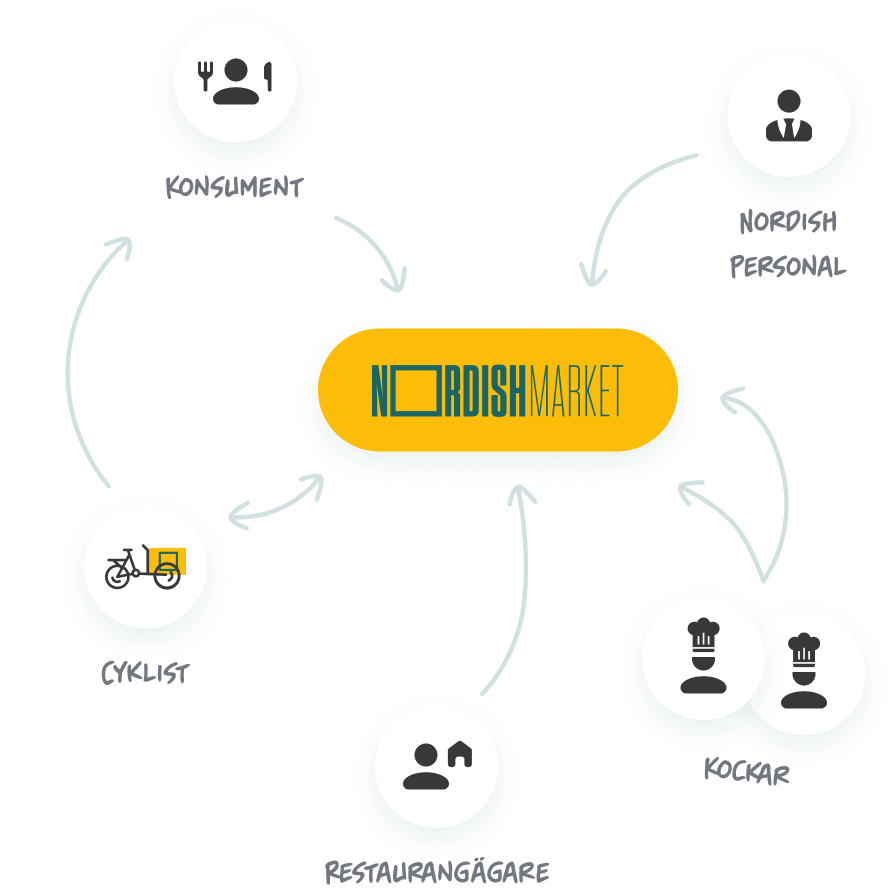
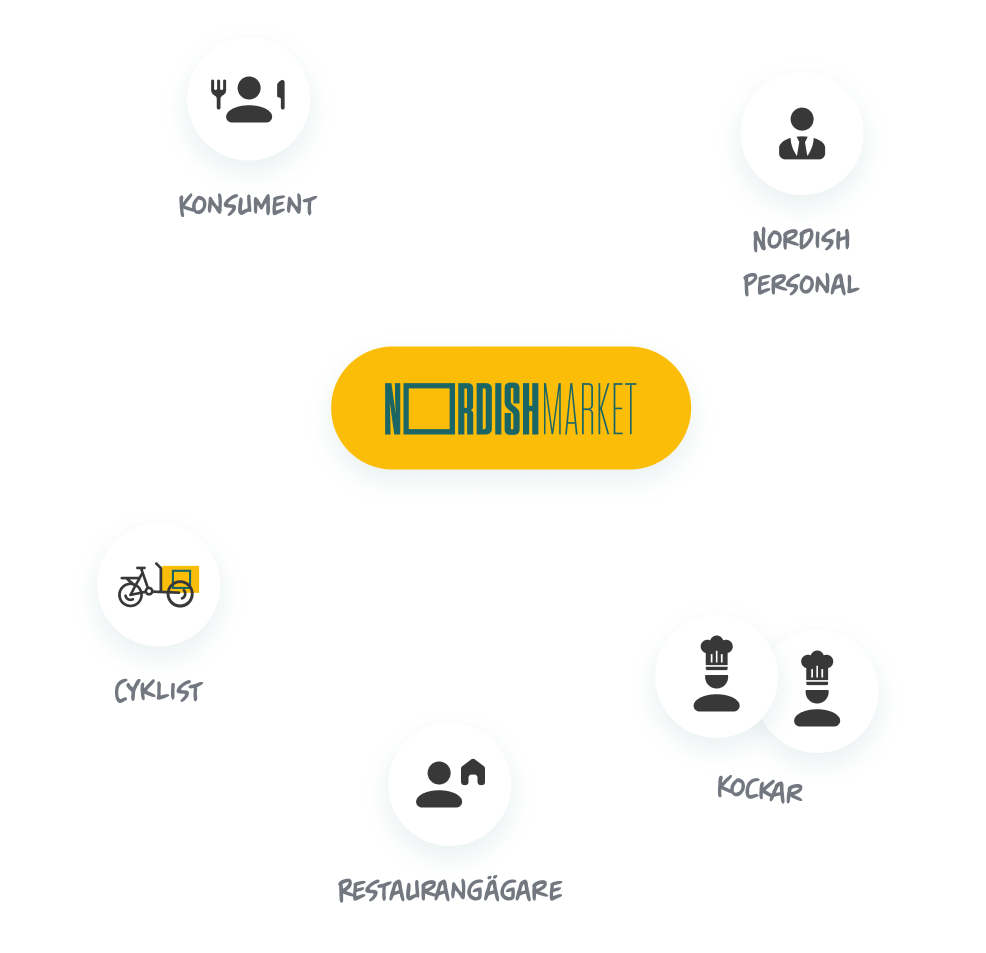
Added translation for Nordish market case + transition fixes

diff --git a/src/cases/nordish-market.js b/src/cases/nordish-market.js
@@ -15,7 +15,6 @@ import ProjectsBlock from './components/projects-block'
 const inViewClasses = [
   `${s.inner} > div:nth-child(2) > :first-child`,
   `${s.inner} > div:nth-child(3) > div:first-child > div`,
-  `${s.inner} > div:nth-child(4) > div:first-child`,
   `${s.inner} > div:nth-child(5) > div:first-child`,
   `${s.inner} > div:nth-child(6) > div:first-child`,
   `${s.inner} > div:nth-child(7) > div:first-child`,
@@ -66,7 +65,6 @@ export default class extends Component {
             />
 
             <ParallaxBumpBlock
-              inView='inViewRight'
               title={content.serviceDesignTitle}
               text={content.serviceDesignText}
               items={[
@@ -78,7 +76,7 @@ export default class extends Component {
             />
 
             <ThreeBlock
-              inView='inViewBottom'
+              inView='inViewLeft'
               background='#FFFFFF'
               modifier='nordish-branding'
               blocks={[
@@ -98,7 +96,6 @@ export default class extends Component {
             />
 
             <TextBlock
-              inView='inViewBottom'
               title={content.outpostTitle}
               text={content.outpostText}
               modifier='nordish'
@@ -106,9 +103,9 @@ export default class extends Component {
             />
 
             <ThreeBlock
-              inView='inViewBottom'
+              inView='inViewRight'
               background='#F4F8F8'
-              modifier='nordish-tech'
+              modifier='nordish-kitchen'
               blocks={[
                 { type: 'text', title: content.kitchenTitle, text: content.kitchenText },
                 { type: 'image', image: content.kitchenImage, modifier: 'nordishImg' }

diff --git a/src/cases/components/three-block.sass b/src/cases/components/three-block.sass
@@ -124,6 +124,7 @@
             width: 100%
 
 
+
   &.nordish-branding
     > .inner  > .blocks >
       .block:nth-child(1)::after
@@ -151,7 +152,7 @@
           margin: 0
           justify-content: center
 
-  &.nordish-tech
+  &.nordish-tech, &.nordish-kitchen
     > .inner  > .blocks >
       .block:nth-child(1), .block:nth-child(2)
         margin-top: 4rem
@@ -177,3 +178,29 @@
       .block:nth-child(2)
         @media screen and (min-width: $small-grid + 51px)
           padding-left: 0
+
+
+  .stackedImages
+    position: relative
+    width: 100%
+    height: 100%
+
+    img
+      top: 50%
+      left: 0
+      transform: translateY(-50%)
+      max-width: 100%
+      opacity: 0
+
+      &:nth-of-type(1)
+        position: relative
+        transition: opacity .8s ease .6s
+
+      &:nth-of-type(2)
+        position: absolute
+        transition: opacity .8s ease 1s
+
+
+  \:global(.inView)
+    .stackedImages img
+      opacity: 1

diff --git a/src/cases/components/three-block.js b/src/cases/components/three-block.js
@@ -10,7 +10,12 @@ export default ({ blocks, background, color, modifier, inView }) => (
       <div class={s.blocks}>
         {blocks.map((block, i) => (
           <div key={'three_block_' + i} class={s.block}>
-            {block.type === 'image' && (
+            {block.type === 'image' && modifier === 'nordish-kitchen' ? (
+              <div class={cx(s.stackedImages, inView && s.inView)}>
+                <img class={s[block.modifier]} src={require(`../../images/${block.image}`)} />
+                <img class={s[block.modifier]} src={require('../../images/cases/nordish-kitchen-arrows.png')} />
+              </div>
+            ) : block.type === 'image' && (
               <img class={s[block.modifier]} src={require(`../../images/${block.image}`)} />
             )}
             {block.type === 'text' && ([

diff --git a/src/cases/components/parallax-bump-block.sass b/src/cases/components/parallax-bump-block.sass
@@ -84,7 +84,7 @@
     overflow: visible
 
     @media screen and (min-width: $small-grid + 101px)
-      margin-bottom: 10rem
+      margin-bottom: 12rem
 
     > .inner
       > .content
